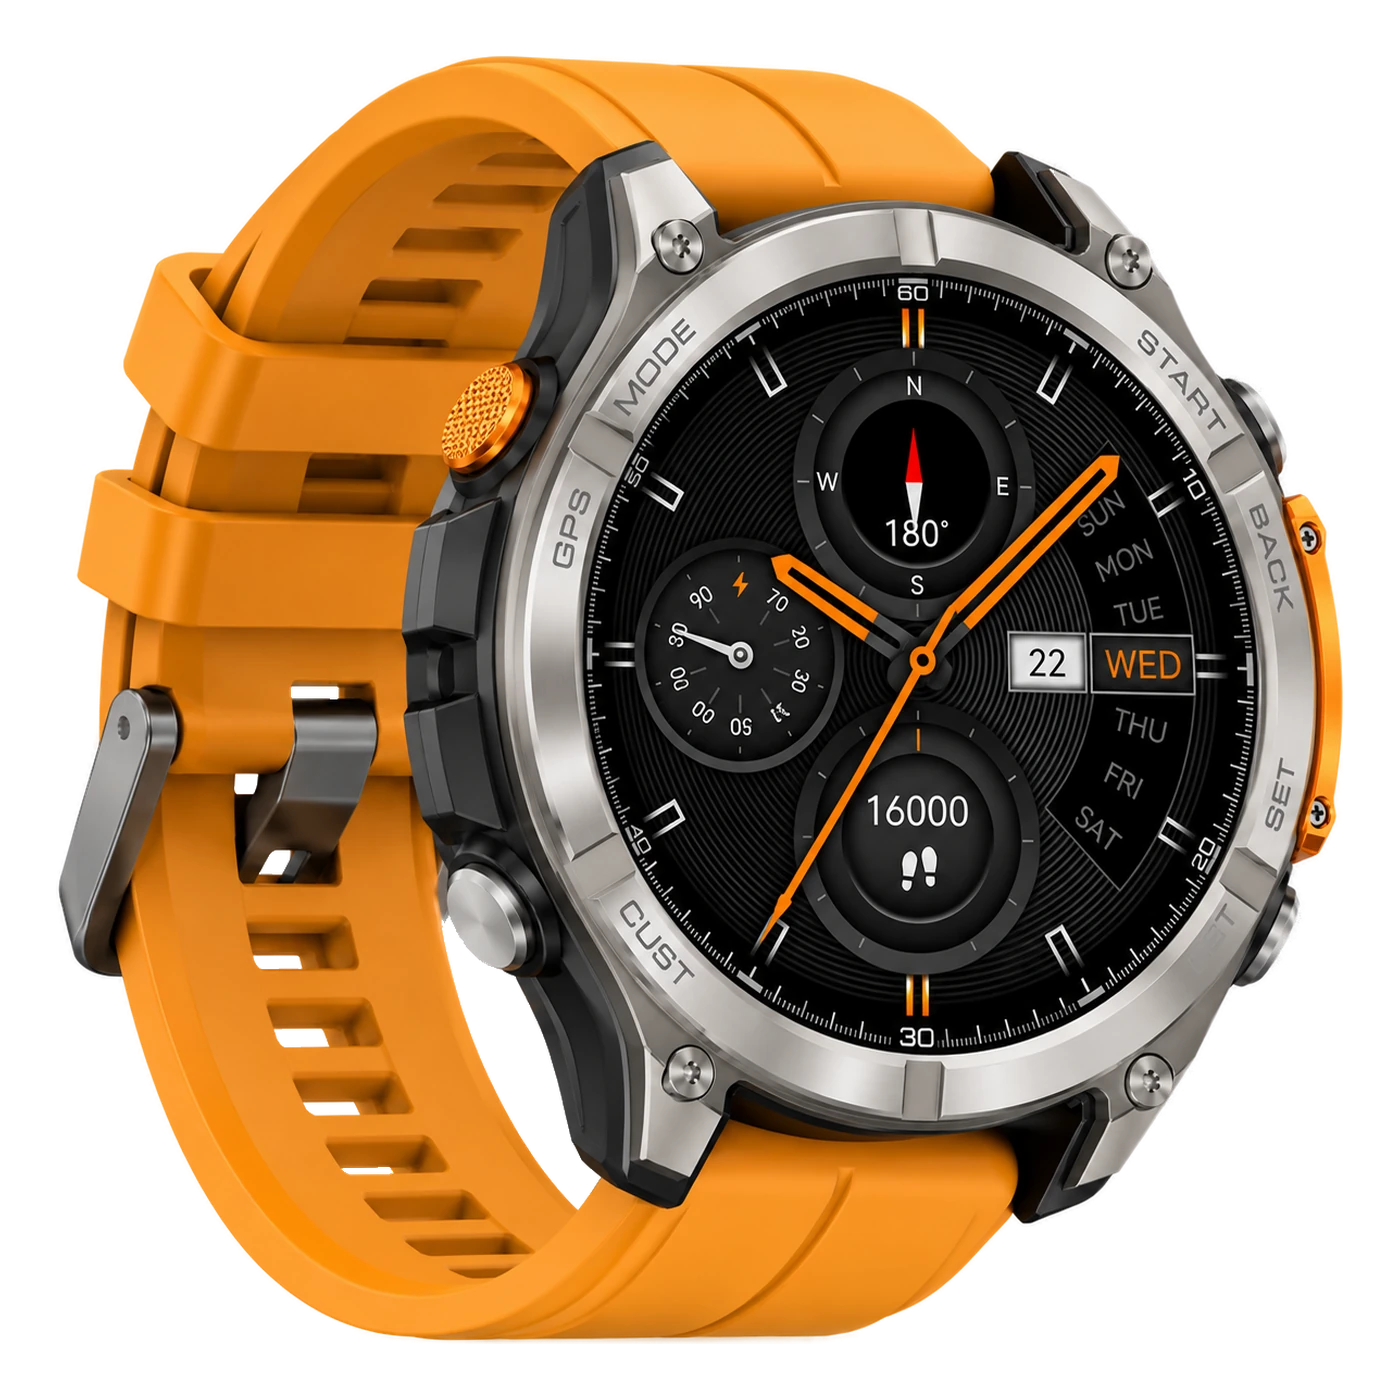
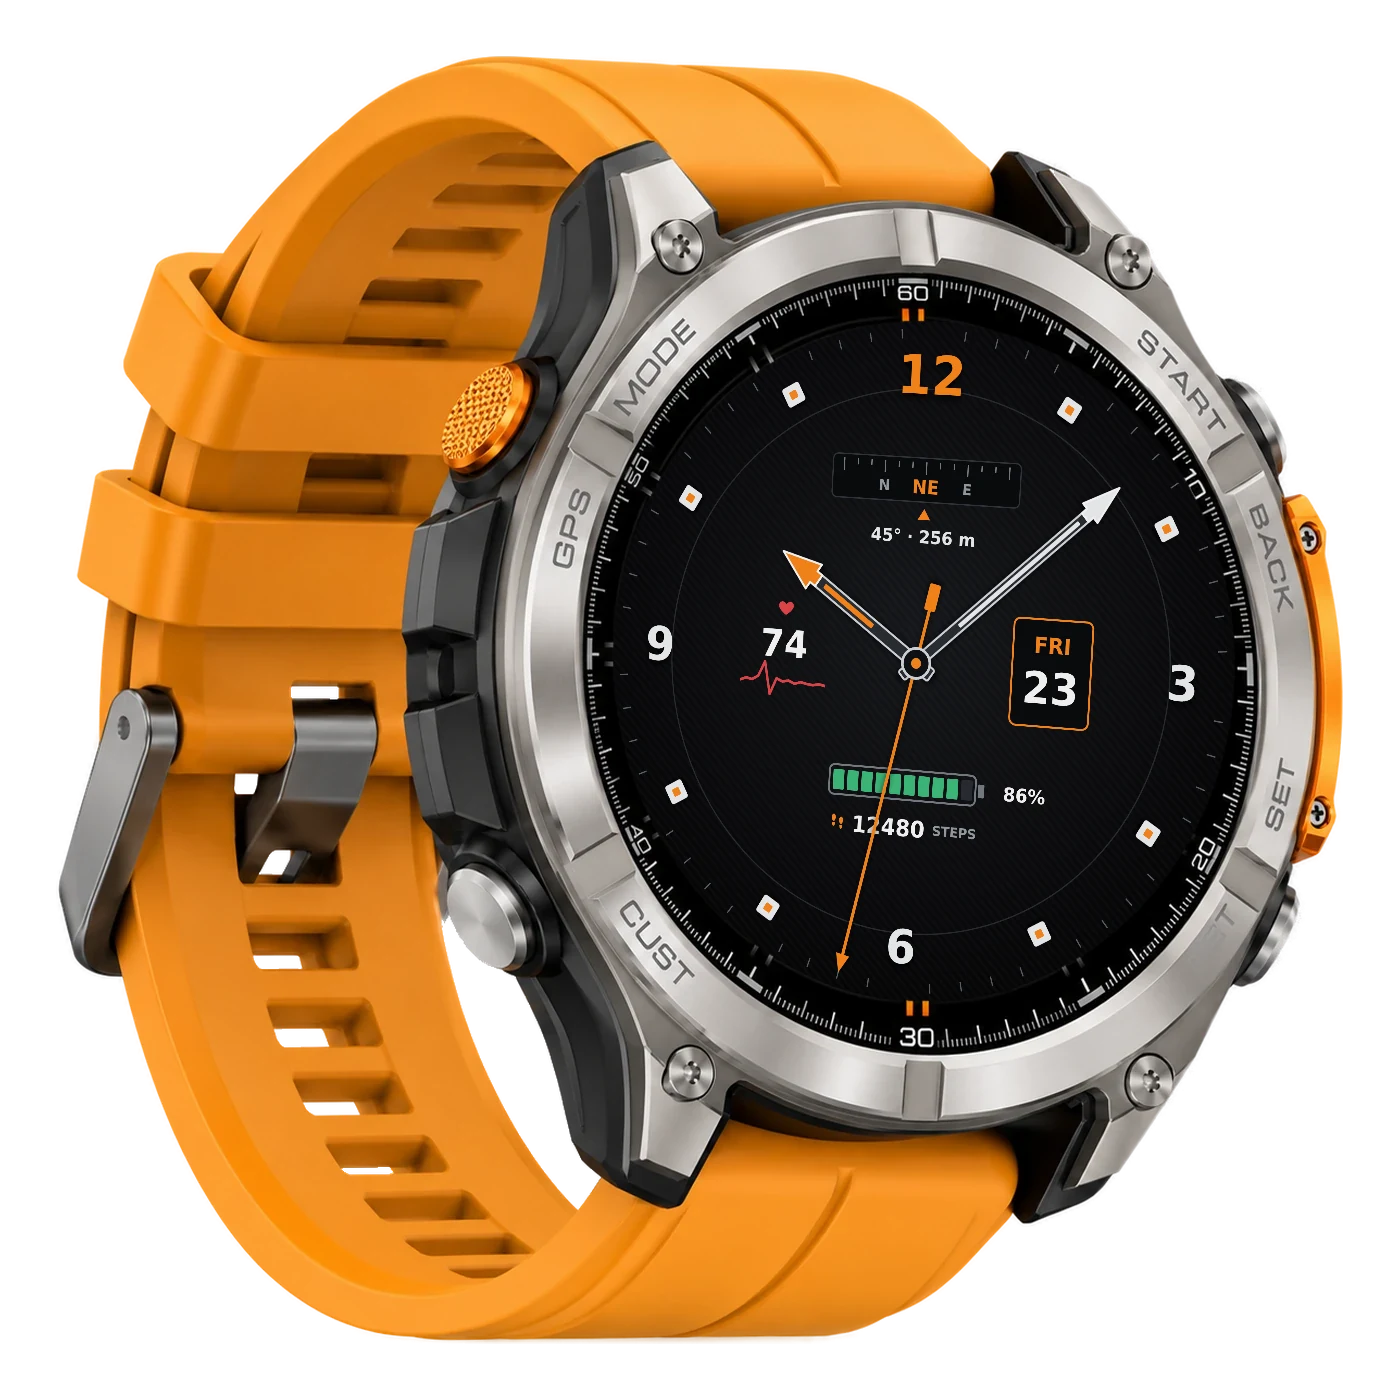
Varkon photos: replace the stock watch faces with our own designs (#16)
Both colours now show our own faces instead of the supplier's stock ones,
so the photos no longer match the same watch sold elsewhere. The black
watch keeps a hybrid digital layout in red, the orange watch gets its
own layout, and both share arrow hands that set them apart from the
Torvan. The share image is updated too, and its tagline now says 30 day
battery instead of 60.

Claude-Session: https://claude.ai/code/session_01EBp4PJDMuRetstA9WV4qsx

Changed region(s): [[0.43, 0.215, 0.8907, 0.7371], [0.4607, 0.3379, 0.5221, 0.3686]]

diff --git a/lib/products.ts b/lib/products.ts
@@ -853,12 +853,12 @@ export const products: Product[] = [
     imageAlts: [
       "MATIN Varkon rugged smartwatch angled from the left with a red stainless steel side plate and armored screws",
       'MATIN Varkon rugged GPS smartwatch in black with a red crown, red side plate and 1.43" AMOLED display',
-      "MATIN Varkon front view with round AMOLED watch face showing time, heart rate, steps, air pressure and date",
+      "MATIN Varkon front view with round AMOLED watch face showing time, battery, heart rate, steps, altitude, compass and date",
       "Back of the MATIN Varkon with heart rate and blood oxygen sensor and magnetic charging pins",
       "MATIN Varkon side view with a red side plate between three metal buttons and black silicone strap",
       "MATIN Varkon in orange and silver angled from the left, with an orange side plate and orange silicone strap",
       'MATIN Varkon rugged GPS smartwatch in orange with a silver steel bezel, orange crown and 1.43" AMOLED display',
-      "MATIN Varkon orange front view with compass, steps and date on the round AMOLED watch face",
+      "MATIN Varkon orange front view with compass, heart rate, battery, steps and date on the round AMOLED watch face",
       "Back of the orange MATIN Varkon with heart rate and blood oxygen sensor and magnetic charging pins",
       "MATIN Varkon orange side view with an orange side plate between metal buttons",
     ],
